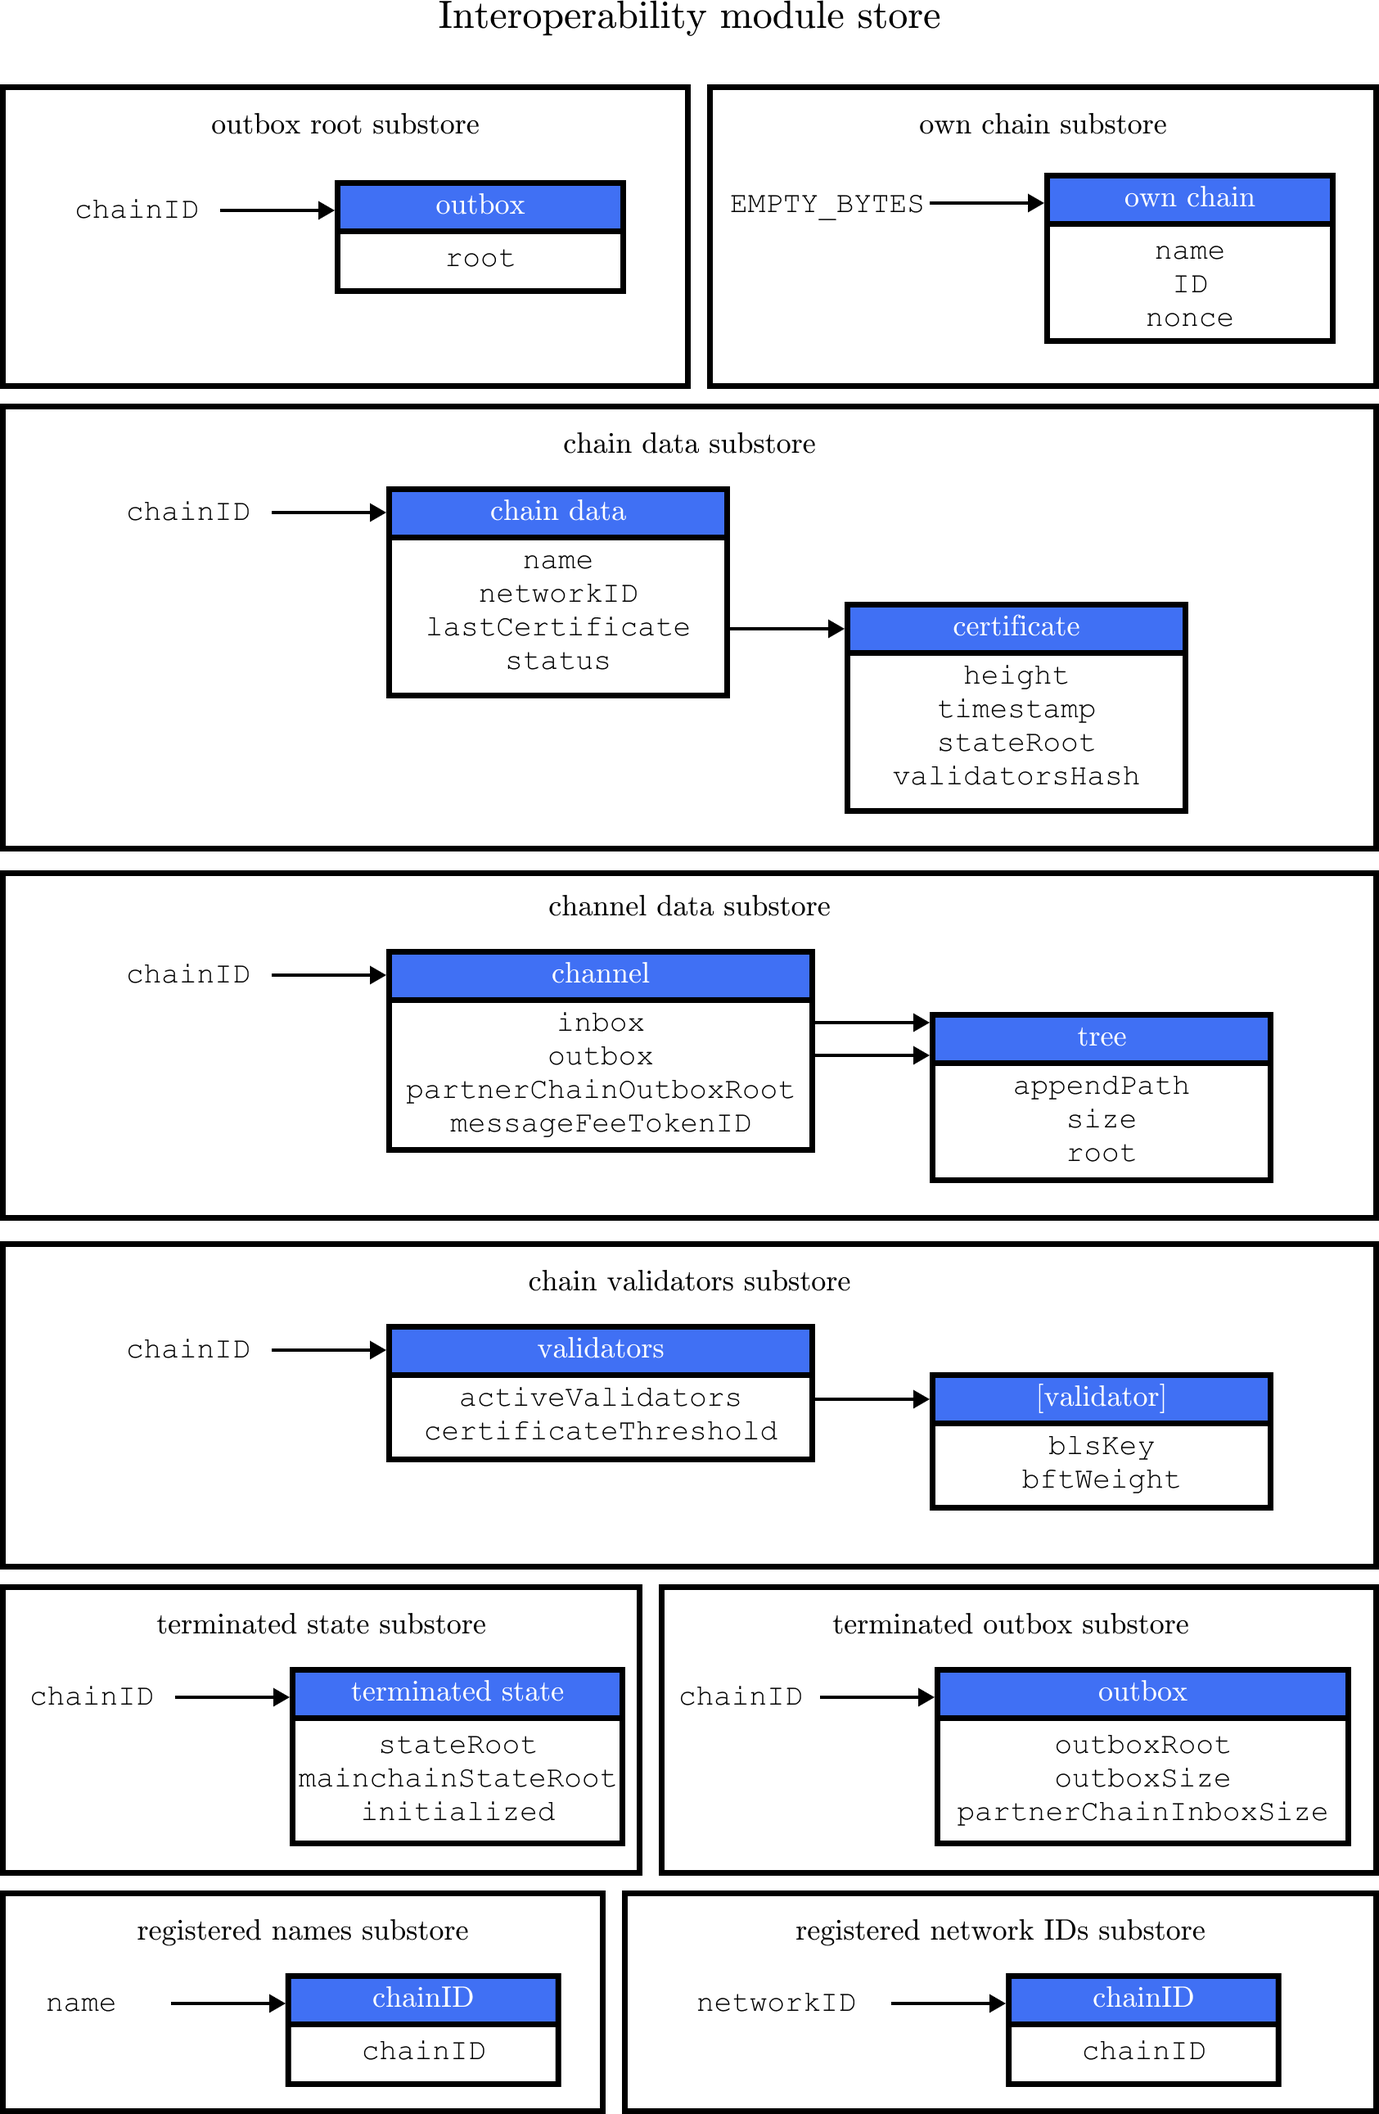
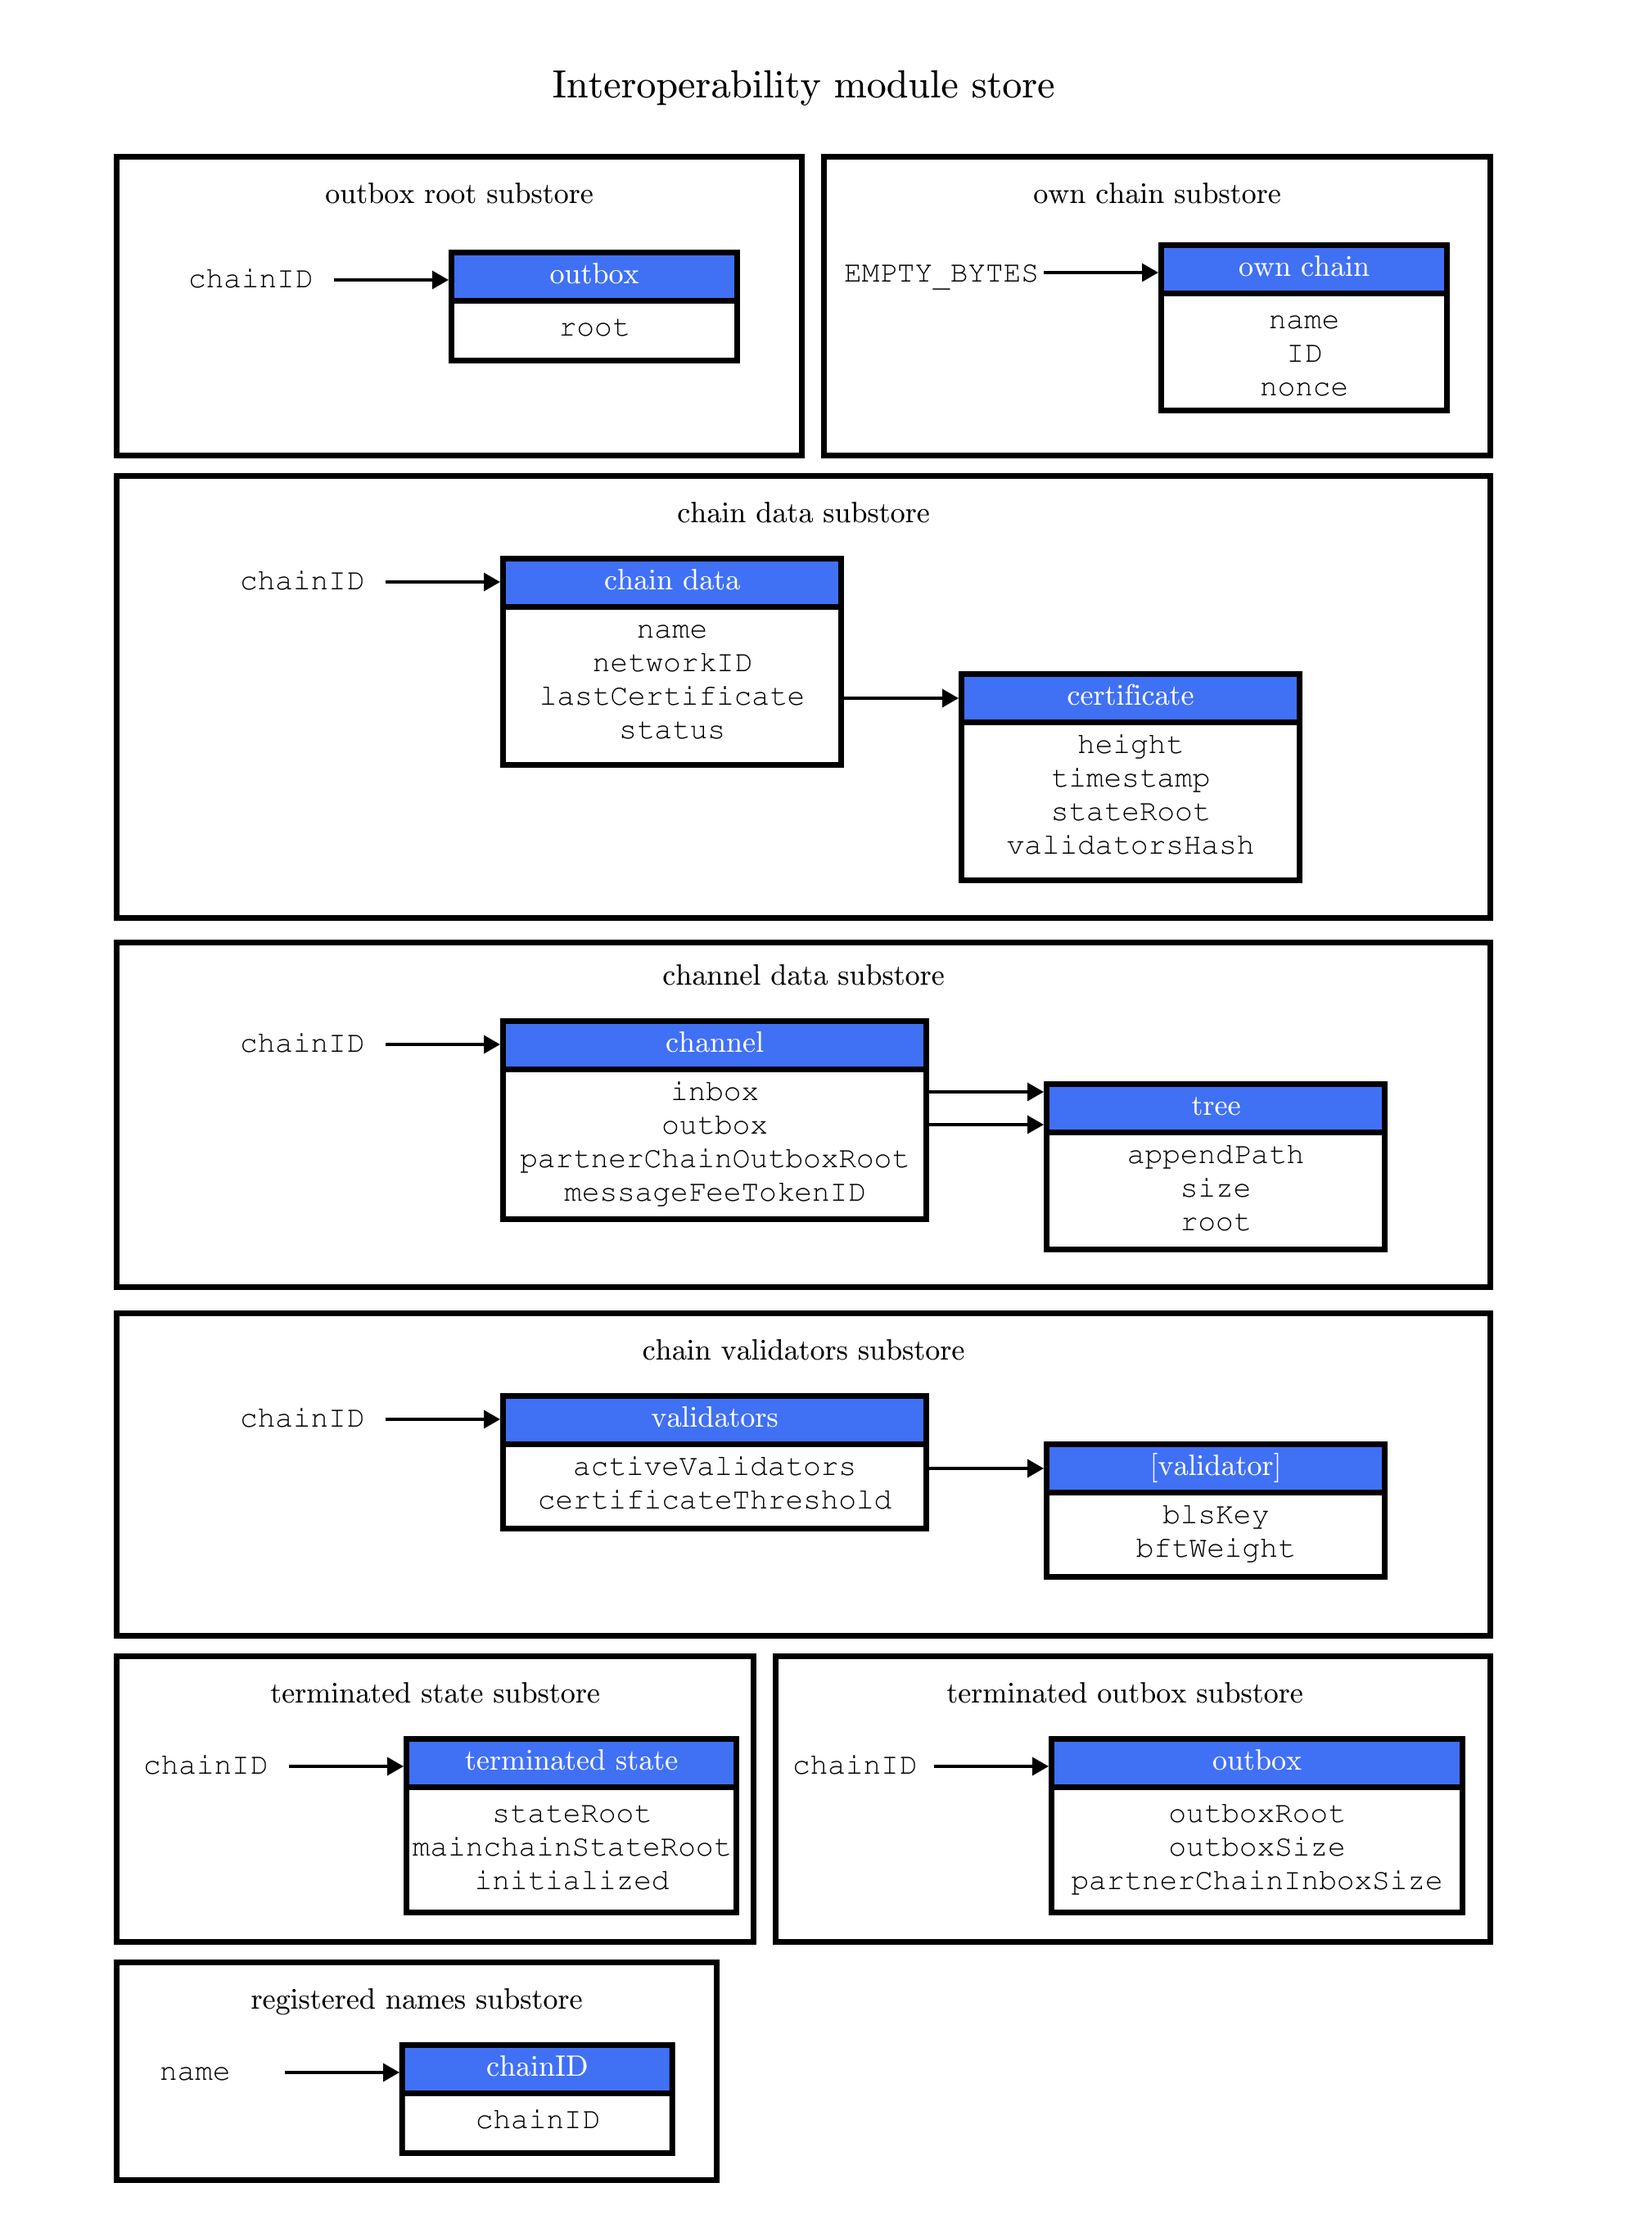
update substores figure

Changed region(s): [[0.0, 0.0, 1.0, 1.0], [0.1543, 0.6197, 0.216, 0.6507]]

diff --git a/proposals/lip-0043.md b/proposals/lip-0043.md
@@ -42,7 +42,7 @@ When a new sidechain is registered on the mainchain via a sidechain registration
 
 ![interoperability_store](lip-0043/interoperability_store.png)
 
-_Figure 1: A summary of the Interoperability module store: Each box represents a substore, where we indicate the `storeKey --> storeValue` relation. For the Lisk mainchain, the 'own chain' substore exists by default in the state whereas there is one entry per registered sidechain for six other substores (outbox root, chain data, channel data, chain validators, registered names) created by a sidechain registration command. For sidechains, the 'own chain' and one entry for the mainchain account for four other substores (outbox root, chain data, channel data, and chain validators) are created by the mainchain registration command._
+_Figure 1: A summary of the Interoperability module store: Each box represents a substore, where we indicate the `storeKey --> storeValue` relation. For the Lisk mainchain, the 'own chain' substore exists by default in the state whereas there is one entry per registered sidechain for five other substores (outbox root, chain data, channel data, chain validators, registered names) created by a sidechain registration command. For sidechains, the 'own chain' and one entry for the mainchain account for four other substores (outbox root, chain data, channel data, and chain validators) are created by the mainchain registration command._
 
 #### Sidechain Registration Command
 
